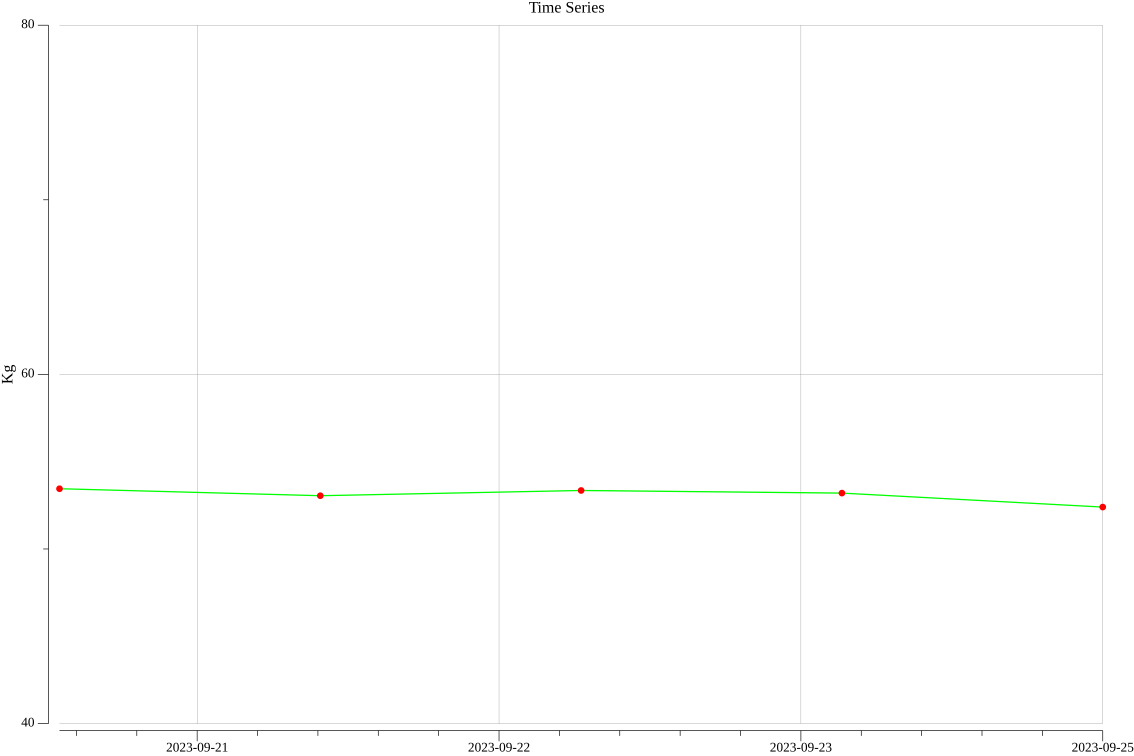
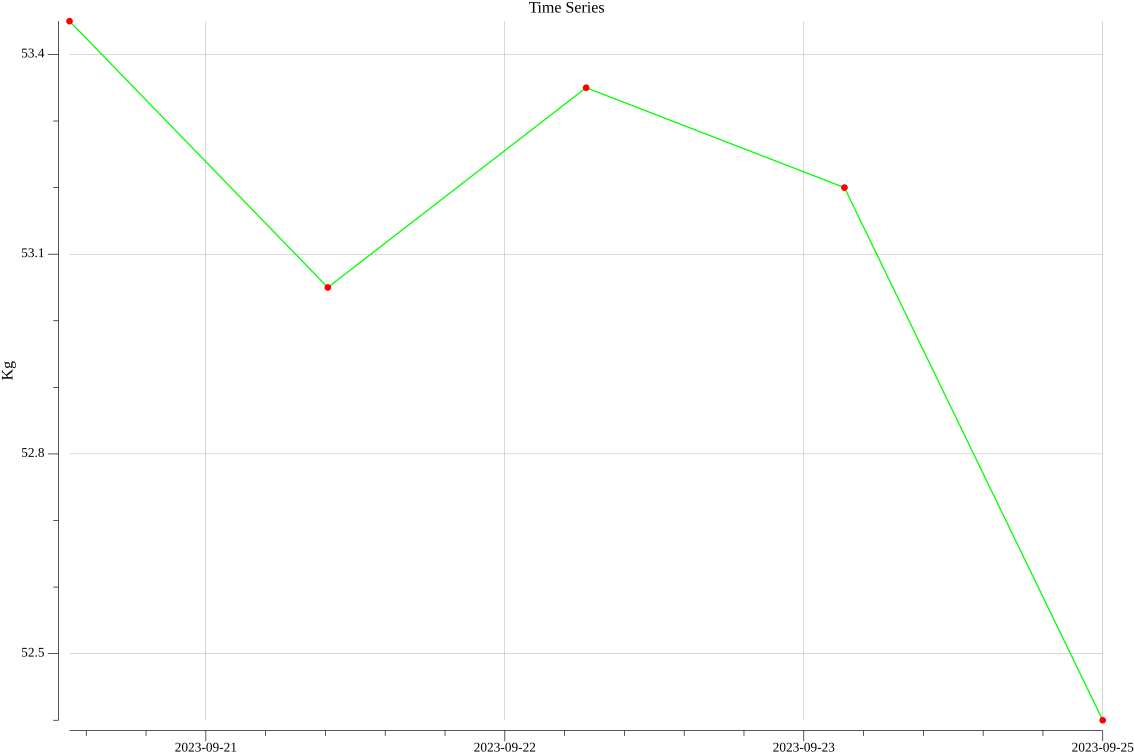
feat: auto detect max, min range

diff --git a/pkg/wei.go b/pkg/wei.go
@@ -9,6 +9,7 @@ import (
 	"strconv"
 	"time"
 
+	"golang.org/x/exp/slices"
 	"gonum.org/v1/plot"
 	"gonum.org/v1/plot/plotter"
 	"gonum.org/v1/plot/vg"
@@ -16,15 +17,49 @@ import (
 )
 
 const input = "weight.csv"
+const output = "timeseries.png"
 
 type Wei struct {
 	firstdate time.Time
 	lastdate  time.Time
 	count     int
+	min       float64
+	max       float64
 }
 
 func New() *Wei {
 	return &Wei{}
+}
+
+func (w *Wei) Plot() {
+	w.analyze()
+
+	p := plot.New()
+	p.Title.Text = "Time Series"
+	p.X.Tick.Marker = plot.TimeTicks{Format: "2006-01-02"}
+	p.Y.Label.Text = "Kg"
+
+	p.X.Min = float64(w.lastdate.Unix())
+	p.X.Max = float64(w.firstdate.Unix())
+	p.Y.Min = w.min
+	p.Y.Max = w.max
+	p.Add(plotter.NewGrid())
+
+	data := w.getPoints()
+	line, points, err := plotter.NewLinePoints(data)
+	if err != nil {
+		log.Panic(err)
+	}
+	line.Color = color.RGBA{G: 255, A: 255}
+	points.Shape = draw.CircleGlyph{}
+	points.Color = color.RGBA{R: 255, A: 255}
+
+	p.Add(line, points)
+
+	err = p.Save(30*vg.Centimeter, 20*vg.Centimeter, output)
+	if err != nil {
+		log.Panic(err)
+	}
 }
 
 func (w *Wei) getPoints() plotter.XYs {
@@ -58,6 +93,7 @@ func (w *Wei) getPoints() plotter.XYs {
 	return pts
 }
 
+// なめて値を入れる
 func (w *Wei) analyze() {
 	f, err := os.Open(input)
 	if err != nil {
@@ -65,50 +101,25 @@ func (w *Wei) analyze() {
 	}
 	r := csv.NewReader(f)
 	i := 0
+	var weights []float64
 	for {
 		record, err := r.Read()
 		if i == 0 {
-			w.firstdate, err = time.Parse("20060102", record[0])
+			date, err := time.Parse("20060102", record[0])
+			if err != nil {
+				log.Fatal(err)
+			}
+			w.firstdate = date
 		}
 		if err == io.EOF {
 			break
 		}
-		if err != nil {
-			log.Fatal(err)
-		}
 		w.lastdate, err = time.Parse("20060102", record[0])
+		weight, err := strconv.ParseFloat(record[1], 64)
+		weights = append(weights, weight)
 		i++
 	}
+	w.min = slices.Min(weights)
+	w.max = slices.Max(weights)
 	w.count = i
-}
-
-func (w *Wei) Plot() {
-	w.analyze()
-	data := w.getPoints()
-
-	p := plot.New()
-	p.Title.Text = "Time Series"
-	p.X.Tick.Marker = plot.TimeTicks{Format: "2006-01-02"}
-	p.Y.Label.Text = "Kg"
-
-	p.X.Min = float64(w.lastdate.Unix())
-	p.X.Max = float64(w.firstdate.Unix())
-	p.Y.Min = 40
-	p.Y.Max = 80
-	p.Add(plotter.NewGrid())
-
-	line, points, err := plotter.NewLinePoints(data)
-	if err != nil {
-		log.Panic(err)
-	}
-	line.Color = color.RGBA{G: 255, A: 255}
-	points.Shape = draw.CircleGlyph{}
-	points.Color = color.RGBA{R: 255, A: 255}
-
-	p.Add(line, points)
-
-	err = p.Save(30*vg.Centimeter, 20*vg.Centimeter, "timeseries.png")
-	if err != nil {
-		log.Panic(err)
-	}
 }
